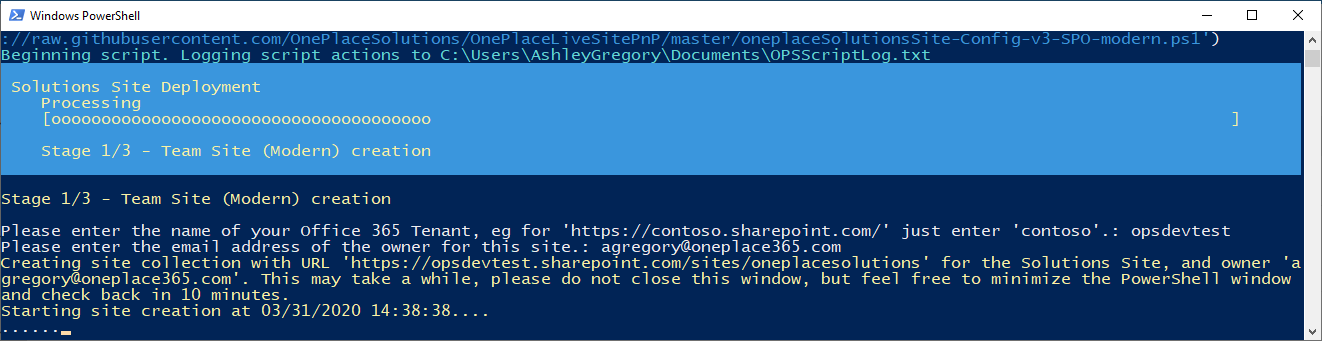
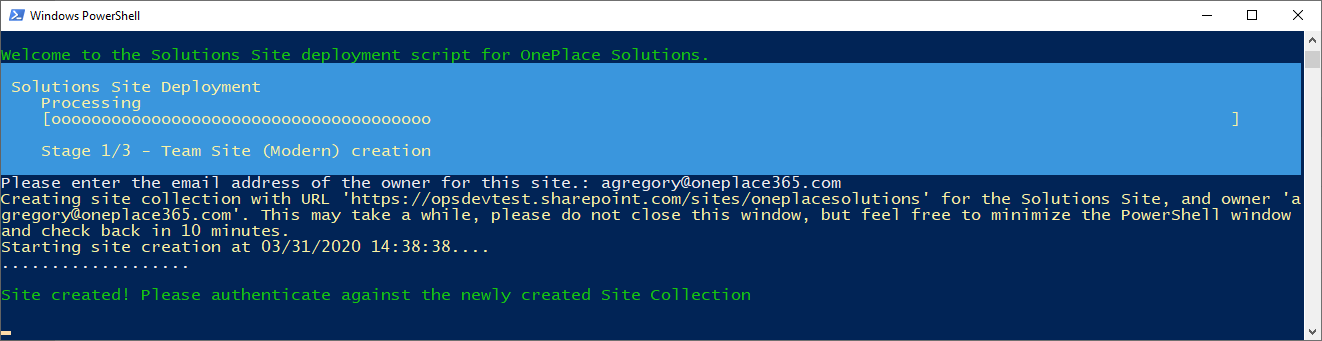
Adding images for README

diff --git a/README.md b/README.md
@@ -26,7 +26,7 @@ In Central Administration, create a site collection based on the Team Site templ
 ![](./README-Images/createsitecollection-onpremise-v2.png)
 
 ## SharePoint Online
-Site creation will be performed automatically with the configuration script. The site will be created at 'http://&lt;<span>yourSharePoint&gt;.sharepoint.com/sites/<b>oneplacesolutions</b>'. This can be overridden by downloading and running the PowerShell script locally and defining the '-solutionssite' parameter:
+Site creation will be performed automatically with the configuration script. The site will be created at 'http://&lt;yourSharePoint&gt;&#46;sharepoint&#46;com/sites/<b>oneplacesolutions</b>'. This can be overridden by downloading and running the PowerShell script locally and defining the '-solutionssite' parameter:
 ![](./README-Images/scriptoverrideSPO.png)
 
 Note that the script will not run if the site named already exists.
@@ -52,14 +52,22 @@ All actions performed with the script will be logged to 'OPSScriptLog.txt' in yo
 
     ![](./README-Images/entertenantSPO.png)
 
-4.  You will be asked to enter your credentials for Microsoft 365 \/ SharePoint. For SharePoint Online this will be your email address
+4.  You will be asked to enter your credentials for Microsoft 365 \/ SharePoint. For SharePoint Online this will be your email address.
 
-5.  You will be asked to enter an email address for the owner of this Site Collection. Enter the same email address you logged in with:
+5.  You will then be asked to enter an email address for the owner of this Site Collection. Enter the same email address you logged in with:
 
     ![](./README-Images/enterownerSPO.png)
 
-5.  The OnePlace Solutions site template will then be downloaded and applied to your site collection:
+6.  SharePoint will start provisioning the Site. Please leave the PowerShell window open while this happens, it will automatically resume the script when the Site is ready to configure.
 
-    ![](./README-Images/applychanges.png)
+    ![](./README-Images/sitecreationSPO.png)
 
-    ![](./README-Images/applyingchangestosite.png)
+7.  Once SharePoint has created the Site, the script will start configuring it for use.
+
+    ![](./README-Images/siteconfigurationSPO.png)
+	
+8.  When configuration has completed, your Solutions Site URL, License List URL and License List ID will be displayed (these are also in the log file, and will be visible in the Solutions Site). You may also opt to automatically email these details now to OnePlace Solutions. These URLs will be kept on file for support purposes, and the License List ID will be required for your Production License.
+
+    ![](./README-Images/configurationcompleteSPO.png)
+9.  Finally, press Enter to open your Solutions Site.
+    ![](./README-Images/solutionssiteSPO.png)
